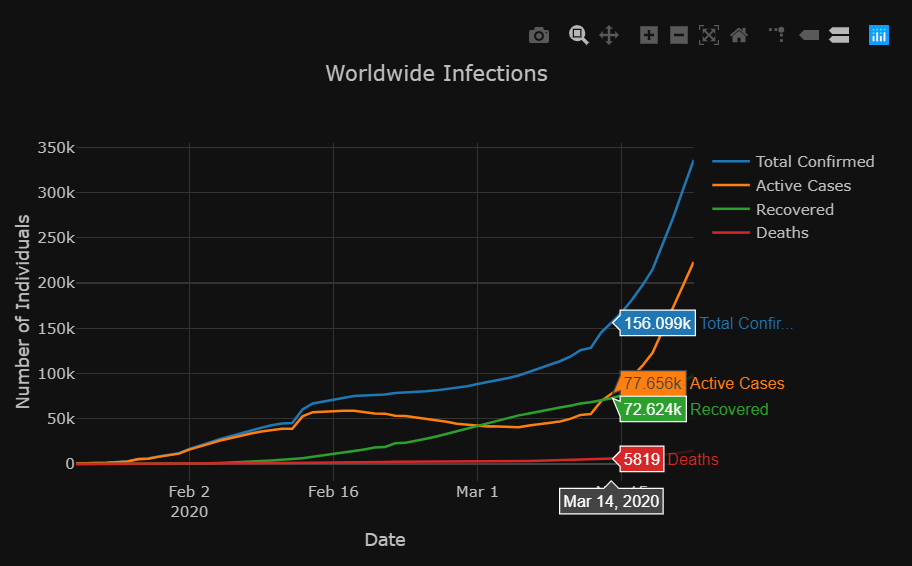
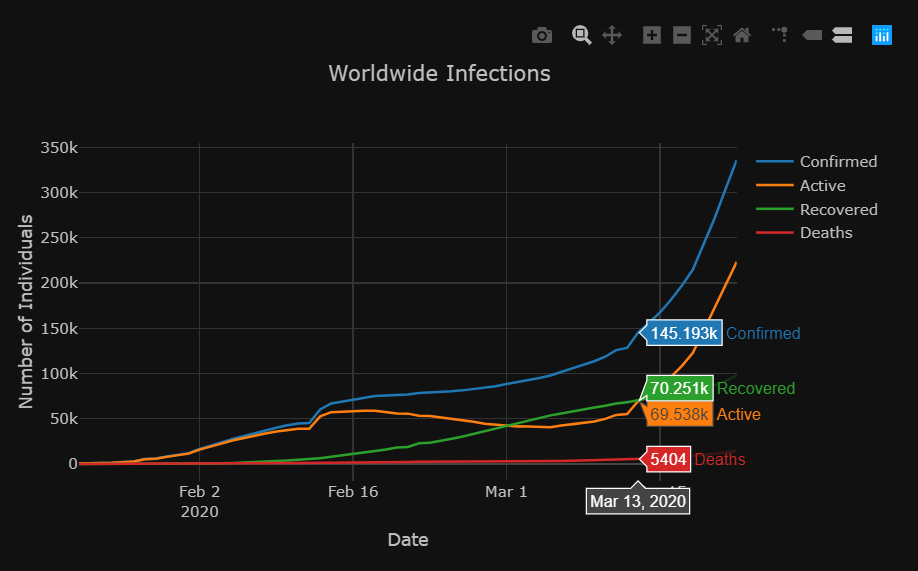
renamed traces on infections chart

diff --git a/app.py b/app.py
@@ -446,12 +446,12 @@ def worldwide_trend(view):
     traces = [go.Scatter(
                     x=df.groupby('date')['date'].first(),
                     y=df.groupby('date')['Confirmed'].sum(),
-                    name="Total Confirmed",
+                    name="Confirmed",
                     mode='lines'),
                 go.Scatter(
                     x=df.groupby('date')['date'].first(),
                     y=df.groupby('date')['Active'].sum(),
-                    name="Active Cases",
+                    name="Active",
                     mode='lines'),
                 go.Scatter(
                     x=df.groupby('date')['date'].first(),
@@ -558,7 +558,7 @@ def stacked_active(view, column):
                 x=df[df['Country/Region'] == region].groupby('date')['date'].first(),
                 y=df[df['Country/Region'] == region].groupby('date')[column].sum(),
                 name=region,
-                hoverinfo='x+y+z+text+name',
+                hoverinfo='x+y+name',
                 stackgroup='one',
                 mode='none'))
     return {
